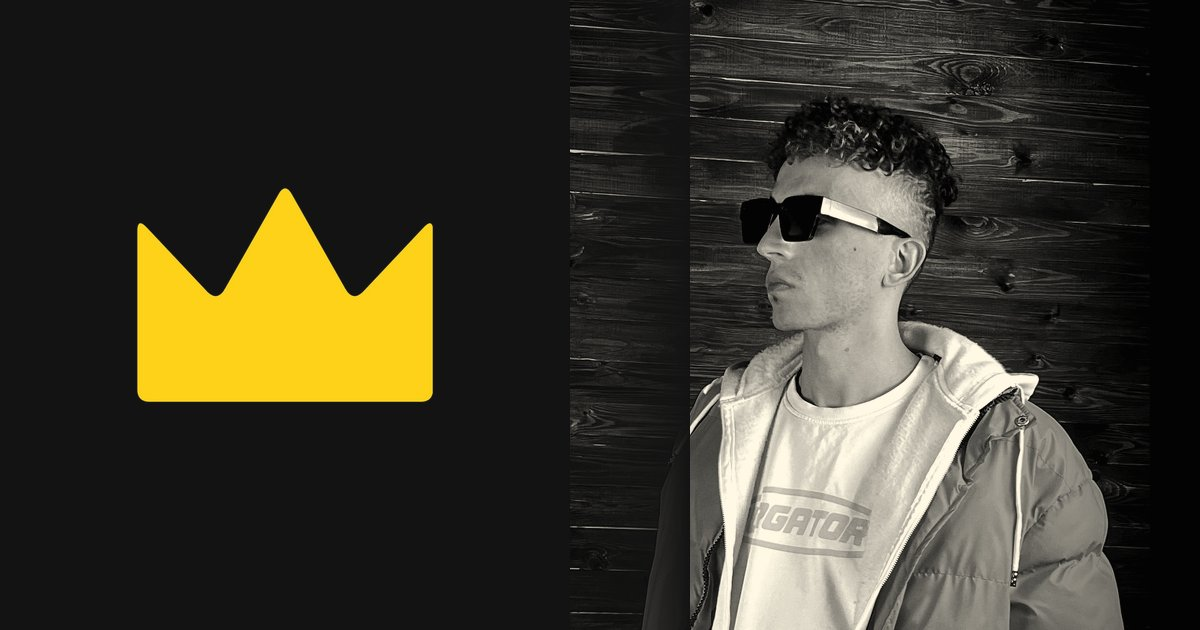
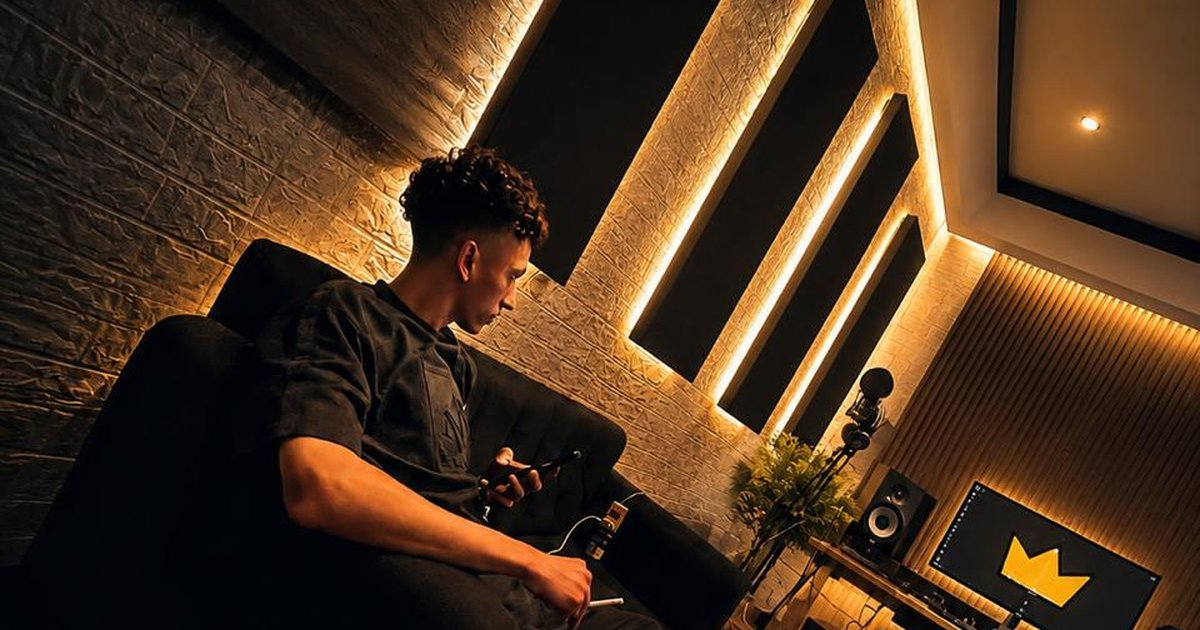
Hero background: warm amber studio photo; lighter overlay; share image updated to match

diff --git a/index.html b/index.html
@@ -24,7 +24,7 @@
 .ts-head nav { display: flex; flex-wrap: wrap; gap: 4px; }
 .ts-head nav button { background: none; border: 0; color: #cfcfcf; font: inherit; padding: 10px; min-height: 44px; cursor: pointer; }
 .ts-head nav button:hover { color: #FED219; }
-.ts-hero { text-align: center; padding: 56px 20px 48px; background: linear-gradient(180deg, rgba(19,19,19,.45) 0%, rgba(19,19,19,.78) 45%, rgba(19,19,19,.95) 100%), url("hero-bg.jpg?v=2") 50% 22%/cover no-repeat; border-bottom: 3px solid #FED219; }
+.ts-hero { text-align: center; padding: 56px 20px 48px; background: linear-gradient(180deg, rgba(19,19,19,.38) 0%, rgba(19,19,19,.68) 45%, rgba(19,19,19,.92) 100%), url("hero-bg.jpg?v=3") 50% 30%/cover no-repeat; border-bottom: 3px solid #FED219; }
 .ts-hero-in { max-width: 760px; margin: 0 auto; }
 .ts-avatar { width: 128px; height: 128px; border-radius: 50%; margin: 0 auto 16px; background: #1c1c1c; border: 3px solid #FED219; display: grid; place-items: center; font-size: 56px; font-weight: 800; color: #FED219; }
 .ts-hero h1 { font-size: clamp(48px, 12vw, 96px); margin: 0; line-height: 1.1; }
